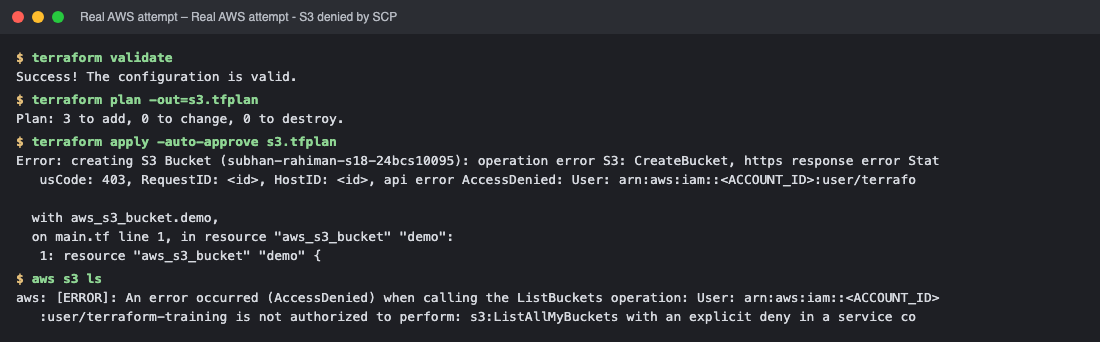
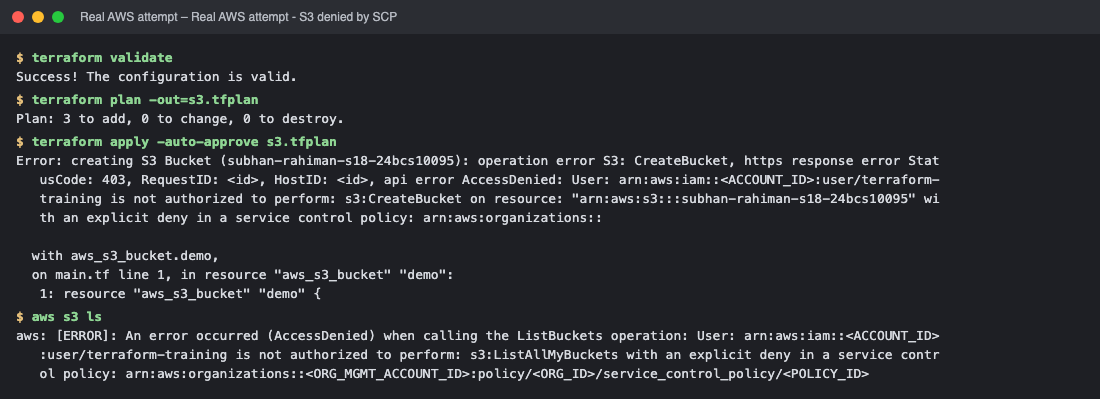
Sessions 18-19: complete redaction and show the full AWS error text

Changed region(s): [[0.0, 0.117, 0.8655, 0.5556], [0.0, 0.614, 0.8655, 0.9649], [0.0, 0.0292, 0.3709, 0.0877]]

diff --git a/session19-terraform-cloud-infrastructure/README.md b/session19-terraform-cloud-infrastructure/README.md
@@ -632,6 +632,7 @@ Resources are destroyed in the **reverse** dependency order (instance first, VPC
 
 
 
+
 ## Attempt on real AWS (blocked by the account's organisation policy)
 
 The same project was also run against **real AWS** (region `ap-south-1`, IAM user with `AdministratorAccess` in an AWS Organizations member account). The account's policies block the services this project needs: Terraform's data sources failed with **HTTP 403** (`ec2:DescribeAvailabilityZones`, `ec2:DescribeImages`), so the plan could not be completed, and even a read-only `aws ec2 describe-vpcs` returns *UnauthorizedOperation*; S3 is explicitly denied by a Service Control Policy (see Session 18). Terraform therefore refused to apply (`Cannot apply incomplete plan`): **no resources were created on AWS, no cost was incurred and `terraform destroy` had nothing to remove**. The account ID is redacted. All other results in this README come from the local emulator.
@@ -653,14 +654,14 @@ Changes to Outputs:
   + security_group_id   = (known after apply)
   + vpc_cidr            = "10.20.0.0/16"
   + vpc_id              = (known after apply)
-Error: fetching Availability Zones: operation error EC2: DescribeAvailabilityZones, https response error StatusCode: 403, RequestID: <id>e89124-a409-4536-8c80-ef731c74c5a4, api error UnauthorizedOperation: You are not authorized t
-Error: reading EC2 AMIs: operation error EC2: DescribeImages, https response error StatusCode: 403, RequestID: <id>f5c4-9108-447c-875c-e10763c79d3b, api error UnauthorizedOperation: You are not authorized to perform this operation
+Error: fetching Availability Zones: operation error EC2: DescribeAvailabilityZones, https response error StatusCode: 403, RequestID: <id>, api error UnauthorizedOperation: You are not authorized to perform this operation. User: arn:aws:iam::<ACCOUNT_ID>:user/terraform-training is not authorized to perform: ec2:DescribeAvailabilityZones with an explicit deny in a service control policy: arn:aws:organizations::<ORG_MGM
+Error: reading EC2 AMIs: operation error EC2: DescribeImages, https response error StatusCode: 403, RequestID: <id>, api error UnauthorizedOperation: You are not authorized to perform this operation. User: arn:aws:iam::<ACCOUNT_ID>:user/terraform-training is not authorized to perform: ec2:DescribeImages with an explicit deny in a service control policy: arn:aws:organizations::<ORG_MGMT_ACCOUNT_ID>:policy/<ORG_ID>/ser
 
 $ terraform apply -no-color -auto-approve s19.tfplan
 Error: Cannot apply incomplete plan - Terraform encountered an error when generating this plan, so it cannot be applied.
 
 $ aws ec2 describe-vpcs --filters Name=tag:Name,Values=session19-vpc
-aws: [ERROR]: An error occurred (UnauthorizedOperation) when calling the DescribeVpcs operation: You are not authorized to perform this operation. User: arn:aws:iam::<ACCOUNT_ID>:user/terraform-training is not authorized to perfor
+aws: [ERROR]: An error occurred (UnauthorizedOperation) when calling the DescribeVpcs operation: You are not authorized to perform this operation. User: arn:aws:iam::<ACCOUNT_ID>:user/terraform-training is not authorized to perform: ec2:DescribeVpcs with an explicit deny in a service control policy: arn:aws:organizations::<ORG_MGMT_ACCOUNT_ID>:policy/<ORG_ID>/service_control_policy/<POLICY_ID>
 ```
 
 ![Real AWS attempt - EC2 and S3 blocked](screenshots/real-aws-attempt-01.png)

diff --git a/session18-terraform-iac/terraform-s3-demo/README.md b/session18-terraform-iac/terraform-s3-demo/README.md
@@ -423,6 +423,7 @@ aws_s3_bucket_versioning.demo
 
 
 
+
 ## Attempt on real AWS (blocked by the account's organisation policy)
 
 The same project was also run against **real AWS** (region `ap-south-1`, an IAM user with `AdministratorAccess` in an AWS Organizations member account). `init`, `fmt`, `validate` and `plan` succeeded, but **`apply` was rejected by AWS**: the organisation's **Service Control Policy explicitly denies `s3:CreateBucket`** (and even `s3:ListAllMyBuckets`), so S3 cannot be used in this account whatever the IAM permissions are. No bucket was created and nothing needs to be destroyed. The account ID is redacted. The complete workflow output in this README therefore comes from the local emulator.
@@ -435,14 +436,14 @@ $ terraform plan -out=s3.tfplan
 Plan: 3 to add, 0 to change, 0 to destroy.
 
 $ terraform apply -auto-approve s3.tfplan
-Error: creating S3 Bucket (subhan-rahiman-s18-24bcs10095): operation error S3: CreateBucket, https response error StatusCode: 403, RequestID: <id>, HostID: <id>, api error AccessDenied: User: arn:aws:iam::<ACCOUNT_ID>:user/terrafo
+Error: creating S3 Bucket (subhan-rahiman-s18-24bcs10095): operation error S3: CreateBucket, https response error StatusCode: 403, RequestID: <id>, HostID: <id>, api error AccessDenied: User: arn:aws:iam::<ACCOUNT_ID>:user/terraform-training is not authorized to perform: s3:CreateBucket on resource: "arn:aws:s3:::subhan-rahiman-s18-24bcs10095" with an explicit deny in a service control policy: arn:aws:organizations::
 
   with aws_s3_bucket.demo,
   on main.tf line 1, in resource "aws_s3_bucket" "demo":
    1: resource "aws_s3_bucket" "demo" {
 
 $ aws s3 ls
-aws: [ERROR]: An error occurred (AccessDenied) when calling the ListBuckets operation: User: arn:aws:iam::<ACCOUNT_ID>:user/terraform-training is not authorized to perform: s3:ListAllMyBuckets with an explicit deny in a service co
+aws: [ERROR]: An error occurred (AccessDenied) when calling the ListBuckets operation: User: arn:aws:iam::<ACCOUNT_ID>:user/terraform-training is not authorized to perform: s3:ListAllMyBuckets with an explicit deny in a service control policy: arn:aws:organizations::<ORG_MGMT_ACCOUNT_ID>:policy/<ORG_ID>/service_control_policy/<POLICY_ID>
 ```
 
 ![Real AWS attempt - S3 denied by SCP](screenshots/real-aws-attempt-01.png)
